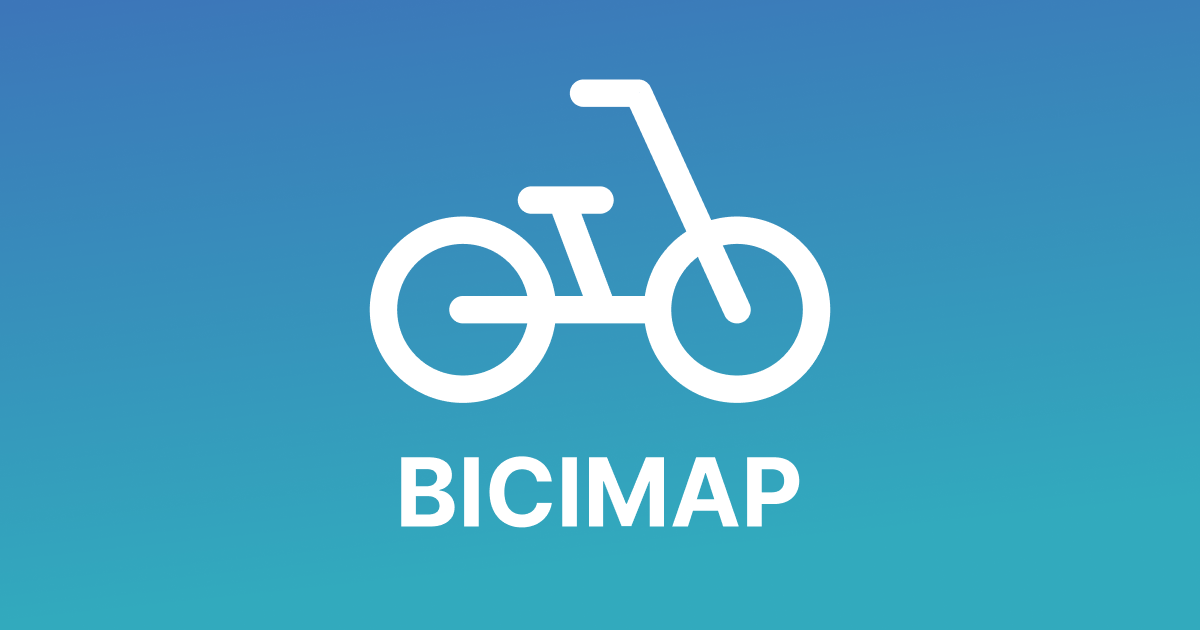
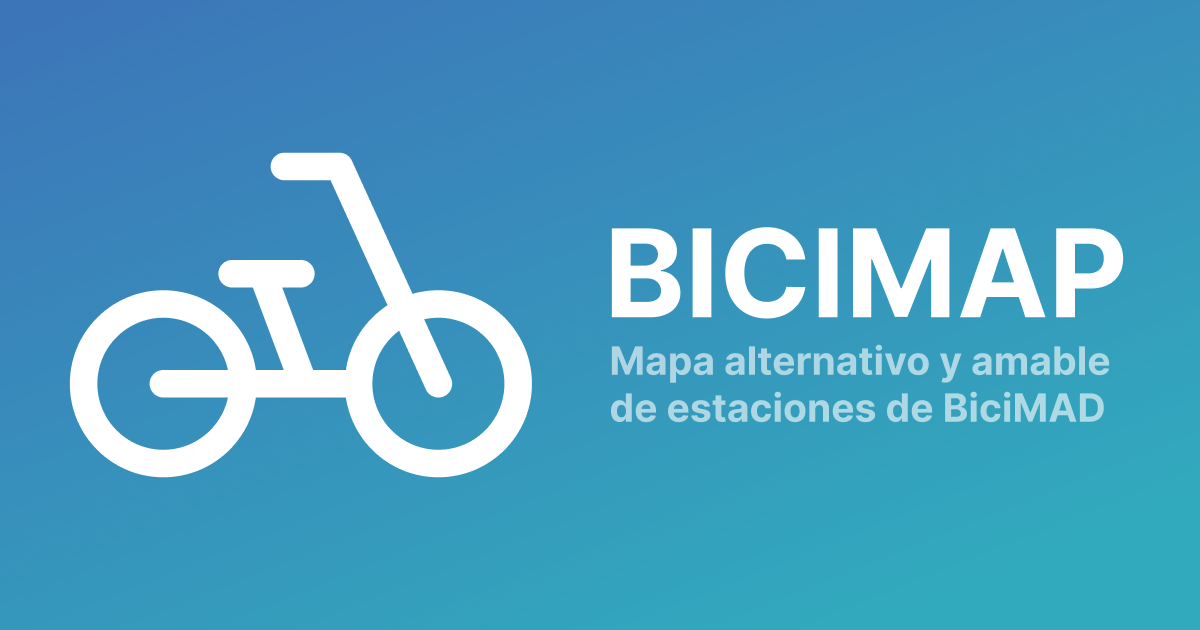
title

Changed region(s): [[0.0308, 0.1206, 0.9558, 0.8444]]

diff --git a/public/index.html b/public/index.html
@@ -1,7 +1,7 @@
 <!DOCTYPE html>
 <html lang="en">
   <head>
-    <title>BiciMap</title>
+    <title>BiciMap - Mapa alternativo y amable de estaciones de BiciMAD</title>
 
     <link rel="apple-touch-icon" sizes="180x180" href="/apple-touch-icon.png">
     <link rel="icon" type="image/png" sizes="32x32" href="/favicon-32x32.png">
@@ -19,9 +19,9 @@
     <meta property="og:site_name" content="BiciMap" />
     <meta name="twitter:title" content="BiciMap">
 
-    <meta name="description" content="🌍  Mapa no oficial de estaciones de BiciMad" />
-    <meta property="og:description" content="🌍  Mapa no oficial de estaciones de BiciMad." />
-    <meta property="twitter:description" content="🌍  Mapa no oficial de estaciones de BiciMad." />
+    <meta name="description" content="🌍  Mapa alternativo y amable de estaciones de BiciMAD" />
+    <meta property="og:description" content="🌍  Mapa alternativo y amable de estaciones de BiciMAD" />
+    <meta property="twitter:description" content="🌍  Mapa alternativo y amable de estaciones de BiciMAD" />
     <meta name=twitter:image content="https://bicimap.javierarce.com/img/card.png">
     <meta property='og:image' content="https://bicimap.javierarce.com/img/card.png"/>
 
